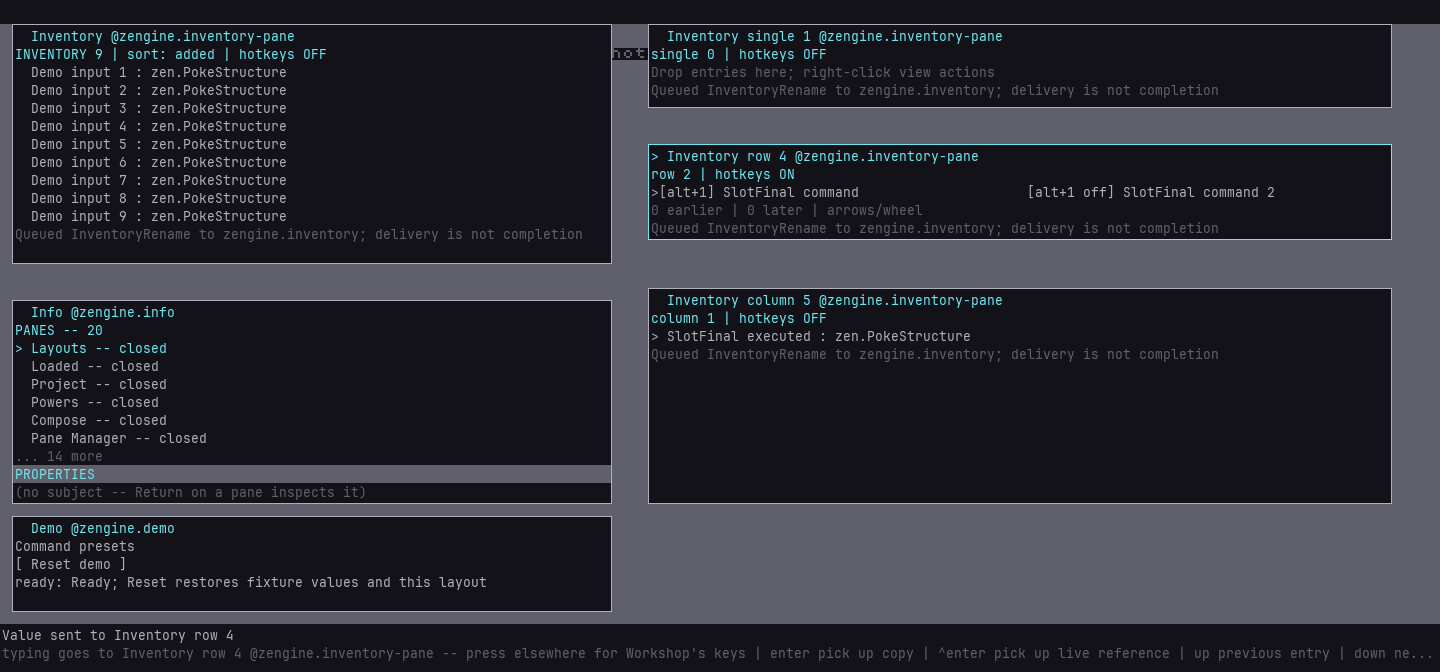
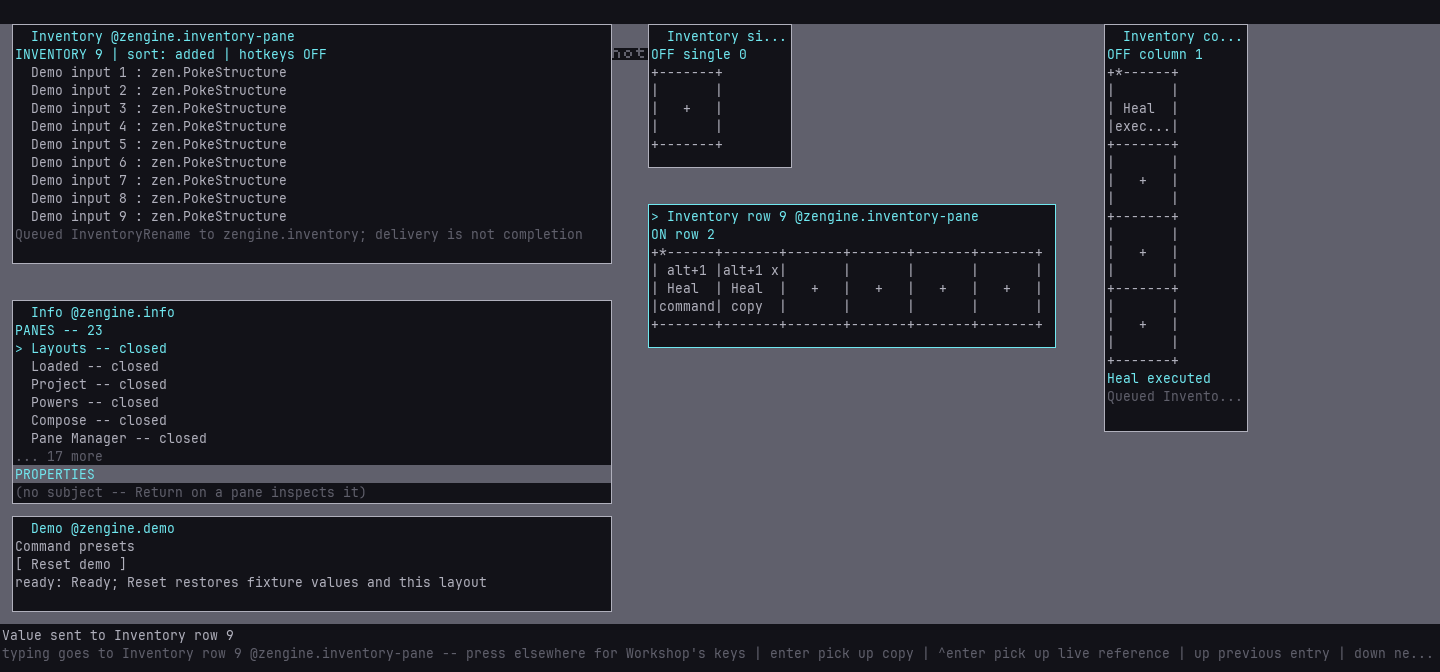
Render compact inventory tiles and offer names for new copies

Changed region(s): [[0.4375, 0.0312, 0.9688, 0.75]]

diff --git a/inventory-pane/presentation.hpp b/inventory-pane/presentation.hpp
@@ -25,6 +25,24 @@ inline std::string caption(const InventoryViews& s, const inventory::InventorySu
         text = "[" + workshop::gesture_word({b->scancode, b->modifiers}) + (b->enabled ? "] " : " off] ") + text;
     return text;
 }
+// Five text rows high, with the wider text-cell aspect compensated horizontally.
+// Adjacent tiles advance by one less than their extent, sharing the border.
+inline constexpr std::int64_t kSlotColumns = 9, kSlotRows = 5;
+inline std::string centered(std::string text, std::size_t width) {
+    text = workshop::pane_text::fit(text, static_cast<std::int64_t>(width));
+    const auto left = (width - text.size()) / 2;
+    return std::string(left, ' ') + text + std::string(width - left - text.size(), ' ');
+}
+inline std::pair<std::string,std::string> tile_name(const std::string& name) {
+    std::size_t cut=std::min<std::size_t>(7,name.size());
+    if(name.size()>7) {
+        const auto space=name.rfind(' ',7);
+        if(space!=std::string::npos && space>0) cut=space;
+    }
+    auto rest=cut;
+    while(rest<name.size() && name[rest]==' ') ++rest;
+    return {name.substr(0,cut),workshop::pane_text::fit(name.substr(rest),7)};
+}
 inline std::vector<surface::SurfaceTextRow> render(const InventoryViews& s, const std::string& id,
     View& v, const std::vector<inventory::InventorySummary>& entries, const std::string& notice,
     const std::string& edit_label = {}, const std::string& edit_text = {}) {
@@ -38,28 +56,52 @@ inline std::vector<surface::SurfaceTextRow> render(const InventoryViews& s, cons
     };
     std::string kind = "inventory";
     for (const auto& x : s.views) if (x.id == id) kind = x.kind;
-    push((id == "inventory" ? "INVENTORY " : kind + " ") + std::to_string(entries.size()) +
+    push((id == "inventory" ? "INVENTORY " : std::string(active(s,id)?"ON ":"OFF ") + kind + " ") + std::to_string(entries.size()) +
          (id == "inventory" ? std::string(" | sort: ") + (v.order == 0 ? "added" : v.order == 1 ? "name" : "type") : "") +
-         " | hotkeys " + (active(s, id) ? "ON" : "OFF"), role::kAccent);
+         (id == "inventory" ? std::string(" | hotkeys ") + (active(s, id) ? "ON" : "OFF") : ""), role::kAccent);
     const auto it = std::find_if(entries.begin(), entries.end(), [&](const auto& e) { return key(e.reference) == v.selected; });
     const auto index = it == entries.end() ? 0u : static_cast<std::size_t>(it - entries.begin());
     if (!edit_label.empty()) {
-        push(edit_label + edit_text, role::kFill);
+        push(edit_label, role::kAccent);
+        push(edit_text, role::kFill);
         push(notice.empty() ? "Enter saves; Escape cancels" : notice, role::kMuted);
-    } else if (kind == "row") {
-        const auto capacity = static_cast<std::size_t>(std::max<std::int64_t>(1, v.columns / 24));
-        const auto count = std::max<std::size_t>(1, std::min(entries.size(), capacity));
-        const auto width = std::max<std::int64_t>(1, v.columns / static_cast<std::int64_t>(count));
-        const auto first = index / count * count;
-        std::string line;
-        for (std::size_t i = first; i < std::min(entries.size(), first + count); ++i) {
-            const auto text = ws::pane_text::fit((key(entries[i].reference) == v.selected ? ">" : " ") + caption(s, entries[i]), width - 1);
-            if (v.rows > 1 && !text.empty()) v.map.span(1, static_cast<std::int64_t>(line.size()), width, v.columns, key(entries[i].reference));
-            line += text; line.append(static_cast<std::size_t>(width) - text.size(), ' ');
+    } else if (kind != "inventory") {
+        const auto capacity = kind == "row" ? (v.columns-1)/(kSlotColumns-1) :
+            kind == "column" ? (v.rows-3)/(kSlotRows-1) : 1;
+        if (v.columns < kSlotColumns || v.rows < kSlotRows+1 || capacity < 1) {
+            push("Resize", role::kMuted); // no invisible/clipped tile is interactive
+            return rows;
         }
-        push(line.empty() ? "Drop entries here" : line, role::kFill);
-        push(std::to_string(first) + " earlier | " + std::to_string(entries.size() > first + count ? entries.size() - first - count : 0) + " later | arrows/wheel", role::kMuted);
-        push(notice.empty() ? "Drag reorders | right-click actions" : notice, role::kMuted);
+        const auto count = static_cast<std::size_t>(capacity);
+        const auto first = index / count * count;
+        const auto width = kind == "row" ? capacity*(kSlotColumns-1)+1 : kSlotColumns;
+        const auto height = kind == "column" ? capacity*(kSlotRows-1)+1 : kSlotRows;
+        std::vector<std::string> grid(static_cast<std::size_t>(height), std::string(static_cast<std::size_t>(width),' '));
+        for (std::size_t slot=0; slot<count; ++slot) {
+            const auto x=kind=="row"?static_cast<std::int64_t>(slot)*(kSlotColumns-1):0;
+            const auto y=kind=="column"?static_cast<std::int64_t>(slot)*(kSlotRows-1):0;
+            auto put=[&](std::int64_t dy,const std::string& text) { grid[static_cast<std::size_t>(y+dy)].replace(static_cast<std::size_t>(x),text.size(),text); };
+            put(0,"+-------+"); put(4,"+-------+");
+            const auto i=first+slot;
+            std::string label="", hint="";
+            bool selected=false;
+            if(i<entries.size()) {
+                const auto& e=entries[i]; label=e.label; selected=key(e.reference)==v.selected;
+                if(const auto* b=binding(s,e.reference)) hint=workshop::gesture_word({b->scancode,b->modifiers})+(b->enabled?"":" x");
+                for(std::int64_t dy=1;dy<kSlotRows-1;++dy)
+                    v.map.span(y+dy+1,x+1,kSlotColumns-2,v.columns,key(e.reference));
+            }
+            put(1,"|"+centered(hint,7)+"|");
+            const auto name=tile_name(label);
+            put(2,"|"+centered(label.empty()?"+":name.first,7)+"|");
+            put(3,"|"+centered(name.second,7)+"|");
+            if(selected) { grid[static_cast<std::size_t>(y)][static_cast<std::size_t>(x+1)]='*'; }
+        }
+        for(const auto& line:grid) push(line,role::kFill);
+        if(it!=entries.end()) push(it->label,role::kAccent);
+        if(first || entries.size()>first+count)
+            push(std::to_string(first)+" earlier | "+std::to_string(entries.size()>first+count?entries.size()-first-count:0)+" later",role::kMuted);
+        push(notice.empty()?"Drag moves | right-click actions":notice,role::kMuted);
     } else {
         const auto budget = static_cast<std::size_t>(std::max<std::int64_t>(0, v.rows - (v.rows > 2 ? 2 : 1)));
         const auto window = component::cursor_window(entries.size(), index, index, budget);

diff --git a/external-host/tools/workshop/inventory_slots_demo.py b/external-host/tools/workshop/inventory_slots_demo.py
@@ -19,6 +19,12 @@ def run(ctx):
     def state():
         return hand.ask(inv[0], "InventoryViewsRequested", {})
 
+    def tile(pane):
+        # PaneView owns the row coordinates. The first interior line is inside the first tile.
+        rows = [r for r in hand.view(inv[0], pane)["rows"] if r["text"].startswith("|")]
+        ctx.check(bool(rows), "view has no complete visible slot; enlarge its room")
+        return rows[0]
+
     def menu(row, index):
         hand.inject([moment(measured, "PointerButton", button=3, pressed=p,
                             x=row["x"], y=row["y"], space=row["space"]) for p in (True, False)])
@@ -40,9 +46,11 @@ def run(ctx):
     added = [e for e in entries() if e["reference"] not in [old["reference"] for old in before]]
     ctx.check(len(added) == 1, "Compose must save one complete command")
     command = added[0]
-    hand.ask("zengine.inventory", "InventoryRename", {"reference": command["reference"],
-             "revision": command["revision"], "label": label + " command"}, settle=True)
     hand.key("escape")
+    menu(hand.row(*inv, command["label"] + " : ", scroll=True), 2)
+    hand.text(label + " command"); hand.key("enter")
+    ctx.check(next(e for e in entries() if e["reference"] == command["reference"])["label"] == label + " command",
+              "context rename did not preserve and name the stored entry")
 
     def create(row, menu_index):
         before = [v["id"] for v in state()["views"]]
@@ -71,13 +79,15 @@ def run(ctx):
             p["front"] = str(i)
         hand.ask("zengine.workshop", "SetupApplyRequested", {"setup": json.dumps(setup)}, settle=True)
 
-    views = [(box, 54, 2, 62, 7)]
+    views = [(box, 54, 2, 12, 12)]
     arrange(views)
-    menu(hand.row(inv[0], box, label + " command"), 5)
+    menu(tile(box), 5)
     hand.text("zengine.inventory alt+1"); hand.key("enter")
-    menu(hand.row(inv[0], box, label + " command"), 6)
-    menu(hand.row(inv[0], box, label + " command"), 3)
+    menu(tile(box), 6)
+    menu(tile(box), 3)
     duplicate = next(e for e in entries() if e["label"] == label + " command 2")
+    menu(hand.row(*inv, label + " command 2", scroll=True), 2)
+    hand.text(label + " copy"); hand.key("enter")
     copied = next(b for b in state()["bindings"] if b["reference"] == duplicate["reference"])
     ctx.check(not copied["enabled"] and copied["target"] == "zengine.inventory" and copied["scancode"] == 30,
               "duplicate did not retain its disabled key and target")
@@ -87,20 +97,20 @@ def run(ctx):
             "operation": "context", "view": row, "text": "", "entry": {"owner": "", "entry": ""},
             "before": {"owner": "", "entry": ""}, "scancode": 0, "modifiers": 0, "enabled": False}, settle=True)
     ctx.on_cleanup(deactivate, "turn off this story's hotkey context")
-    views.append((row, 54, 12, 62, 8)); arrange(views)
+    views.append((row, 54, 17, 34, 12)); arrange(views)
     column = create(hand.view(*inv)["rows"][0], 2)
-    views.append((column, 54, 24, 62, 18)); arrange(views)
+    views.append((column, 92, 2, 12, 34)); arrange(views)
 
     ctx.step("move the slot, displace a filled box, and preserve its binding")
-    hand.drag(hand.row(inv[0], box, label + " command"), hand.view(inv[0], row)["rows"][1], 350)
-    hand.drag(hand.row(*inv, label + " : ", scroll=True), hand.view(inv[0], box)["rows"][1], 350)
-    hand.drag(hand.row(inv[0], row, label + " command"), hand.row(inv[0], box, label), 350)
+    hand.drag(tile(box), tile(row), 350)
+    hand.drag(hand.row(*inv, label + " : ", scroll=True), tile(box), 350)
+    hand.drag(tile(row), tile(box), 350)
     ctx.check(any(e["reference"] == target["reference"] for e in entries()), "displacement lost its owned entry")
     hand.row(*inv, label + " : ", scroll=True)
     picture(ctx, ctx.inputs["link"], "displaced")
-    hand.drag(hand.row(inv[0], box, label + " command"), hand.view(inv[0], row)["rows"][1], 350)
-    hand.drag(hand.row(*inv, label + " : ", scroll=True), hand.view(inv[0], column)["rows"][1], 350)
-    hand.drag(hand.row(*inv, label + " command 2", scroll=True), hand.view(inv[0], row)["rows"][0], 350)
+    hand.drag(tile(box), tile(row), 350)
+    hand.drag(hand.row(*inv, label + " : ", scroll=True), tile(column), 350)
+    hand.drag(hand.row(*inv, label + " copy", scroll=True), hand.view(inv[0], row)["rows"][0], 350)
     before_run = state()
     binding = next(b for b in before_run["bindings"] if b["reference"] == command["reference"])
     ctx.check(binding["enabled"] and binding["scancode"] == 30, "movement changed the item's binding")
@@ -117,6 +127,17 @@ def run(ctx):
     picture(ctx, ctx.inputs["link"], "executed")
     # Leave no test shortcut active after this run. Stored entries and view identities remain.
     menu(hand.view(inv[0], row)["rows"][0], 3)
+    ctx.step("name a new copy on arrival without changing its source")
+    menu(tile(column), 1)
+    hand.click(hand.view(*inv)["rows"][0])
+    hand.row(*inv, "Name:")
+    hand.text(label + " sample"); hand.key("enter")
+    named = next(e for e in entries() if e["label"] == label + " sample")
+    ctx.check(named["reference"] != target["reference"] and named["revision"] == 2,
+              "arrival naming did not rename one independent stored copy")
+    ctx.check(next(e for e in entries() if e["reference"] == target["reference"])["revision"] == changed["revision"],
+              "naming the copy changed its source")
+    picture(ctx, ctx.inputs["link"], "named")
     final = state()
     ctx.check(not next(v for v in final["views"] if v["id"] == row)["active"], "test context did not turn off")
     ctx.produce("result.json", json.dumps({"views": final.fields, "entries": entries(),

diff --git a/inventory-pane/pane.cpp b/inventory-pane/pane.cpp
@@ -39,7 +39,7 @@ class InventoryPane : public loom::WeaveBase<InventoryPane, InventoryPaneState,
         ws::PaneValueCarryRequested, ws::v2::PaneValueCarryRequested, ws::PaneShortcuts,
         ws::PaneLaunchRequested, slots::InventoryViews, inv::InventoryList, inv::InventoryRead,
         inv::InventoryAdd, inv::InventoryRename, inv::InventoryRemove>> {
-    enum class Mode { drag, copy, reference, change, duplicate, run };
+    enum class Mode { drag, copy, reference, change, store, duplicate, run };
     enum class Editing { none, rename, duplicate, binding };
     struct Read {
         inv::InventorySummary target; std::string from; Mode mode;
@@ -92,7 +92,7 @@ public:
         auto menu=ws::pane_menu::Offer(p.pane,e?e->label:"Inventory view").at(p.row,p.column);
         if(e) {
             menu.row("live","Grab live entry reference").row("copy","Pick up a copy")
-                .row("rename","Rename entry").row("duplicate","Duplicate with next number")
+                .row("rename","Rename entry...").row("duplicate","Duplicate with next number")
                 .row("duplicate-name","Duplicate and name...").row("bind","Configure command hotkey...")
                 .row("enable",binding_enabled(e->reference)?"Disable item hotkey":"Enable item hotkey")
                 .row("run","Run configured command now");
@@ -241,10 +241,19 @@ public:
             slots::duplicate_binding(state_.layout,duplicate_source_,e.reference);
             ++layout_revision_; notice_="Independent copy saved; copied hotkey is OFF"; declare_all(m); refresh(m); draw(m); return;
         }
-        if(mode_==Mode::change) {
+        if(mode_==Mode::change || mode_==Mode::store) {
             auto candidate=state_.layout;
             if(drop_into_!=pane && known(drop_into_)) slots::move(candidate,e.reference,drop_into_);
-            drop_into_=pane; propose(std::move(candidate),m); refresh(m); draw(m); return;
+            if(mode_==Mode::store) {
+                target_={}; target_.reference=e.reference; target_.revision=e.revision;
+                views_[current_].selected=slots::key(e.reference);
+                begin_edit(Editing::rename,{});
+                m.as_role(office).send_to_role(ws::pane_menu::kWorkshopRole,
+                    ws::PaneKeyboardRequested{current_},client_.gesture);
+            }
+            drop_into_=pane; propose(std::move(candidate),m);
+            if(mode_==Mode::store) notice_="Name this new item; Enter saves, Escape keeps its generated name";
+            refresh(m); draw(m); return;
         }
         try {
             const auto decoded=inv::decode_pair(bytes(e.pair));
@@ -370,7 +379,7 @@ private:
         if(!host(m) || !known(value.pane) || busy() || editing_!=Editing::none) return;
         if(!views_[value.pane].map.current(value.picture)) {notice_="Drop picture changed; try again"; draw(m); return;}
         current_=value.pane;
-        if(client_.begin(inv::InventoryAdd{value.data,{}},current_,office,m,asks_)) {mode_=Mode::change; drop_into_=current_;}
+        if(client_.begin(inv::InventoryAdd{value.data,{}},current_,office,m,asks_)) {mode_=Mode::store; drop_into_=current_;}
         notice_=client_.notice;
         draw(m);
     }
@@ -434,7 +443,7 @@ private:
     void announce_views(loom::Mail& m) {
         m.as_role(office).send_to_role(ws::pane_menu::kWorkshopRole,ws::v2::PaneOffered{pane,"Inventory","Owned entries and portable toolboxes",7,54});
         for(const auto& v:state_.layout.views) m.as_role(office).send_to_role(ws::pane_menu::kWorkshopRole,
-            ws::v2::PaneOffered{v.id,"Inventory "+v.kind+" "+v.id.substr(10),"Drag to move; right-click for live data and hotkeys",v.kind=="single"?3:v.kind=="row"?5:7,v.kind=="row"?60:30});
+            ws::v2::PaneOffered{v.id,"Inventory "+v.kind+" "+v.id.substr(10),"Drag to move; right-click to name, copy or configure",v.kind=="column"?15:7,v.kind=="row"?41:slots::kSlotColumns});
     }
     void declare_all(loom::Mail& m,const slots::InventoryViews* candidate=nullptr) {
         declare(pane,m,candidate); for(const auto& v:state_.layout.views) declare(v.id,m,candidate);
@@ -463,7 +472,13 @@ private:
             const auto label=editing_!=Editing::none && id==current_ ? (editing_==Editing::binding?"Target Key: ":"Name: ") : "";
             const auto entries=ordered(id);
             if(v.selected.empty() && !entries.empty()) v.selected=slots::key(entries.front().reference);
-            auto rows=slots::render(state_.layout,id,v,entries,notice_,label,line_.text());
+            std::string edit_text;
+            if(*label) {
+                line_.keep_caret_visible(std::max<std::int64_t>(0,v.columns-1));
+                edit_text=line_.visible(std::max<std::int64_t>(0,v.columns-1));
+                edit_text.insert(std::min(line_.caret_column(),edit_text.size()),"|");
+            }
+            auto rows=slots::render(state_.layout,id,v,entries,notice_,label,edit_text);
             m.as_role(office).send_to_role(ws::pane_menu::kWorkshopRole,ws::v3::PaneContent{id,std::move(rows),0,v.map.settle()});
         }
     }

diff --git a/tests/test_workshop_inventory_info.cpp b/tests/test_workshop_inventory_info.cpp
@@ -5,6 +5,7 @@
 #include "message-draft/transfer.hpp"
 #include "inventory/vocabulary.hpp"
 #include "inventory-pane/slots.hpp"
+#include "inventory-pane/presentation.hpp"
 #include "input/input_weave.hpp"
 #include <zen/host/grant_wiring.hpp>
 namespace slots = zengine::inventory_pane;
@@ -275,6 +276,57 @@ struct InventoryStory {
         pump_physical();
     }
 };
+}
+
+TEST_CASE("portable slots: compact tiles share borders and clipped tiles have no hit targets") {
+    slots::InventoryViews state;
+    state.views.push_back({"strip","row",false,{}});
+    std::vector<inv::InventorySummary> entries={{{"owner","a"},1,"Heal","Item",1,false},
+                                               {{"owner","b"},1,"Shield","Item",1,false}};
+    slots::View view; view.rows=7; view.columns=17;
+    auto rows=slots::render(state,"strip",view,entries,{}); view.map.settle();
+    REQUIRE(rows.size()>=6);
+    CHECK(rows[1].text=="+-------+-------+");
+    REQUIRE(view.map.at(3,2)); CHECK(*view.map.at(3,2)=="owner:a");
+    REQUIRE(view.map.at(3,10)); CHECK(*view.map.at(3,10)=="owner:b");
+    CHECK(view.map.at(3,8)==nullptr); CHECK(view.map.at(1,2)==nullptr);
+    const auto picture=view.map.picture();
+    view.columns=8; slots::render(state,"strip",view,entries,{}); view.map.settle();
+    CHECK(view.map.size()==0); CHECK_FALSE(view.map.current(picture));
+    state.views[0].kind="column"; view.columns=9; view.rows=11;
+    rows=slots::render(state,"strip",view,entries,{}); view.map.settle();
+    CHECK(rows[5].text=="+-------+");
+    REQUIRE(view.map.at(7,2)); CHECK(*view.map.at(7,2)=="owner:b");
+    CHECK(view.map.at(5,2)==nullptr);
+}
+
+TEST_CASE("portable slots: a newly stored copy offers naming and later rename keeps its identity") {
+    for(const bool rename_allowed:{false,true}) {
+        InventoryStory s(rename_allowed?191:175,true);
+        s.click(s.source,0); s.key(input::scan::kReturn); s.click(s.source,0); // copy the selected capture slot into Inventory
+        REQUIRE(s.saved_entries().size()==1);
+        s.act([](loom::Mail& m){m.send_to_role(inv::kInventoryRole,inv::InventoryList{});});
+        const auto original=s.hand->listing.entries.back();
+        CHECK_MESSAGE(s.shown(s.source).find("Name:")!=std::string::npos,s.shown(s.source));
+        s.text("Useful"); s.key(input::scan::kReturn);
+        if(!rename_allowed) {
+            CHECK_MESSAGE(s.shown(s.source).find("no authority")!=std::string::npos,s.shown(s.source));
+            CHECK(s.entry(original.label).revision==original.revision);
+        } else {
+            const auto renamed=s.entry("Useful"); CHECK(slots::same(renamed.reference,original.reference));
+            s.menu(s.source,2,2); s.key(input::scan::kA,input::mod::kCtrl); s.text("Better"); s.key(input::scan::kReturn);
+            CHECK(slots::same(s.entry("Better").reference,original.reference));
+        }
+        CHECK(s.saved_entries().size()==1); CHECK(s.saved_entries()[0].item.get("count")->as_int()==7);
+        CHECK(s.stored().item.get("count")->as_int()==7);
+    }
+    InventoryStory cancelled;
+    cancelled.click(cancelled.source,0); cancelled.key(input::scan::kReturn); cancelled.click(cancelled.source,0);
+    REQUIRE(cancelled.saved_entries().size()==1);
+    cancelled.key(input::scan::kEscape);
+    CHECK(cancelled.saved_entries().size()==1);
+    CHECK(cancelled.shown(cancelled.source).find("Name:")==std::string::npos);
+    CHECK(cancelled.entry("story.RuntimeItem").revision==1);
 }
 
 TEST_CASE("portable slots: arrangement preserves ownership, reorders strips and returns a displaced single") {

diff --git a/docs/workshop/inventory-slots.md b/docs/workshop/inventory-slots.md
@@ -4,6 +4,18 @@ Right-click a stored entry to pop out a single box, row or column. Drag entries 
 views or back to the main Inventory. A drop before a strip entry reorders it; a filled single box
 returns its previous occupant to main Inventory. Other receiving panes still receive copies.
 
+Portable views show compact, roughly square buttons: five text rows high, with nine columns
+compensating for the text face's aspect ratio. Rows and columns repeat that footprint with one
+shared border. Short names wrap inside each tile; select an entry or open its context menu to
+see its full name. Resize a strip to expose more slots, or use arrows/wheel to browse overflow.
+The `*` marks selection; `x` after a key means that item's binding is disabled. The view heading
+shows whether its context is ON or OFF. Drag from a tile's interior; borders are not entry targets.
+
+A newly copied value dropped into Inventory offers **Name** after it has been stored. Enter
+saves the name; Escape keeps the generated name and the stored value. Existing entries can be
+changed with right-click **Rename entry...** (or Ctrl+N). Renaming preserves identity, data and
+hotkey configuration; moving an existing entry does not prompt for a new name.
+
 Right-click **Duplicate with next number** or **Duplicate and name** for independent data.
 The duplicate remembers a configured key and target but starts disabled. To use a command hotkey:
 
@@ -34,7 +46,9 @@ loom-session run <session-dir> workshop/inventory-slots-demo --name slots-one --
 The story saves a complete command through Compose, creates all three views through menus,
 configures Alt+1, duplicates its disabled configuration, performs timed drags and single-box
 displacement, and verifies one explicit invocation against Inventory's owner revision. It saves
-`displaced`, `arranged` and `executed` pictures plus `result.json` with view state and request counts.
+`displaced`, `arranged`, `executed` and `named` pictures plus `result.json` with view state and
+request counts. The last step copies a value from a tile and names it on arrival in Inventory,
+checking that the source stays unchanged.
 The test context is turned OFF on completion/cleanup; entries and view identities remain.
 
 Use Reset before another run and choose a fresh short label. This demo arranges its own panes;

diff --git a/docs/reference/inventory.md b/docs/reference/inventory.md
@@ -285,6 +285,12 @@ Drops into Info/Compose and the explicit **Pick up a copy** action retain copy s
 name; **Duplicate and name** opens the name editor first. Both retain configured key/target
 settings but start with the copy disabled. Editing a copy never writes the source.
 
+New copy drops offer an optional name after successful storage. Escape leaves the generated name
+and data intact. Right-click **Rename entry...** changes an existing label through the ordinary
+revision-checked rename door under the current actor's authority. Label editing never changes
+entry identity or its binding. Portable views use compact shared-border tiles, with full entry
+names in selection/context and a horizontally scrolling editor for small rooms.
+
 **Configure command hotkey** takes an explicit target office and key, for example
 `zengine.inventory alt+1`. Then **Enable item hotkey** enables that item's configuration.
 The view's **Turn hotkeys ON/OFF** is a separate activation context. Main Inventory and new views

diff --git a/agents/inventory.md b/agents/inventory.md
@@ -73,3 +73,7 @@ verification follows [verification](verification.md).
   current actor authority and attributed dragging. Public vocabulary joins the package witness;
   inventory-slots-demo provides the maintained visible journey. Pending tokens/read/permission
   books remain image-local. Restored references never rebind to a different owner by label.
+- Portable tile interiors and their hit spans come from one composition. Shared borders and
+  clipped tiles are not entry targets. Copy-drop naming begins only after owner storage succeeds;
+  cancelling it leaves the stored value. Rename uses the current naming gesture's authority and
+  exact entry revision, never a cached grant from the earlier drop.
